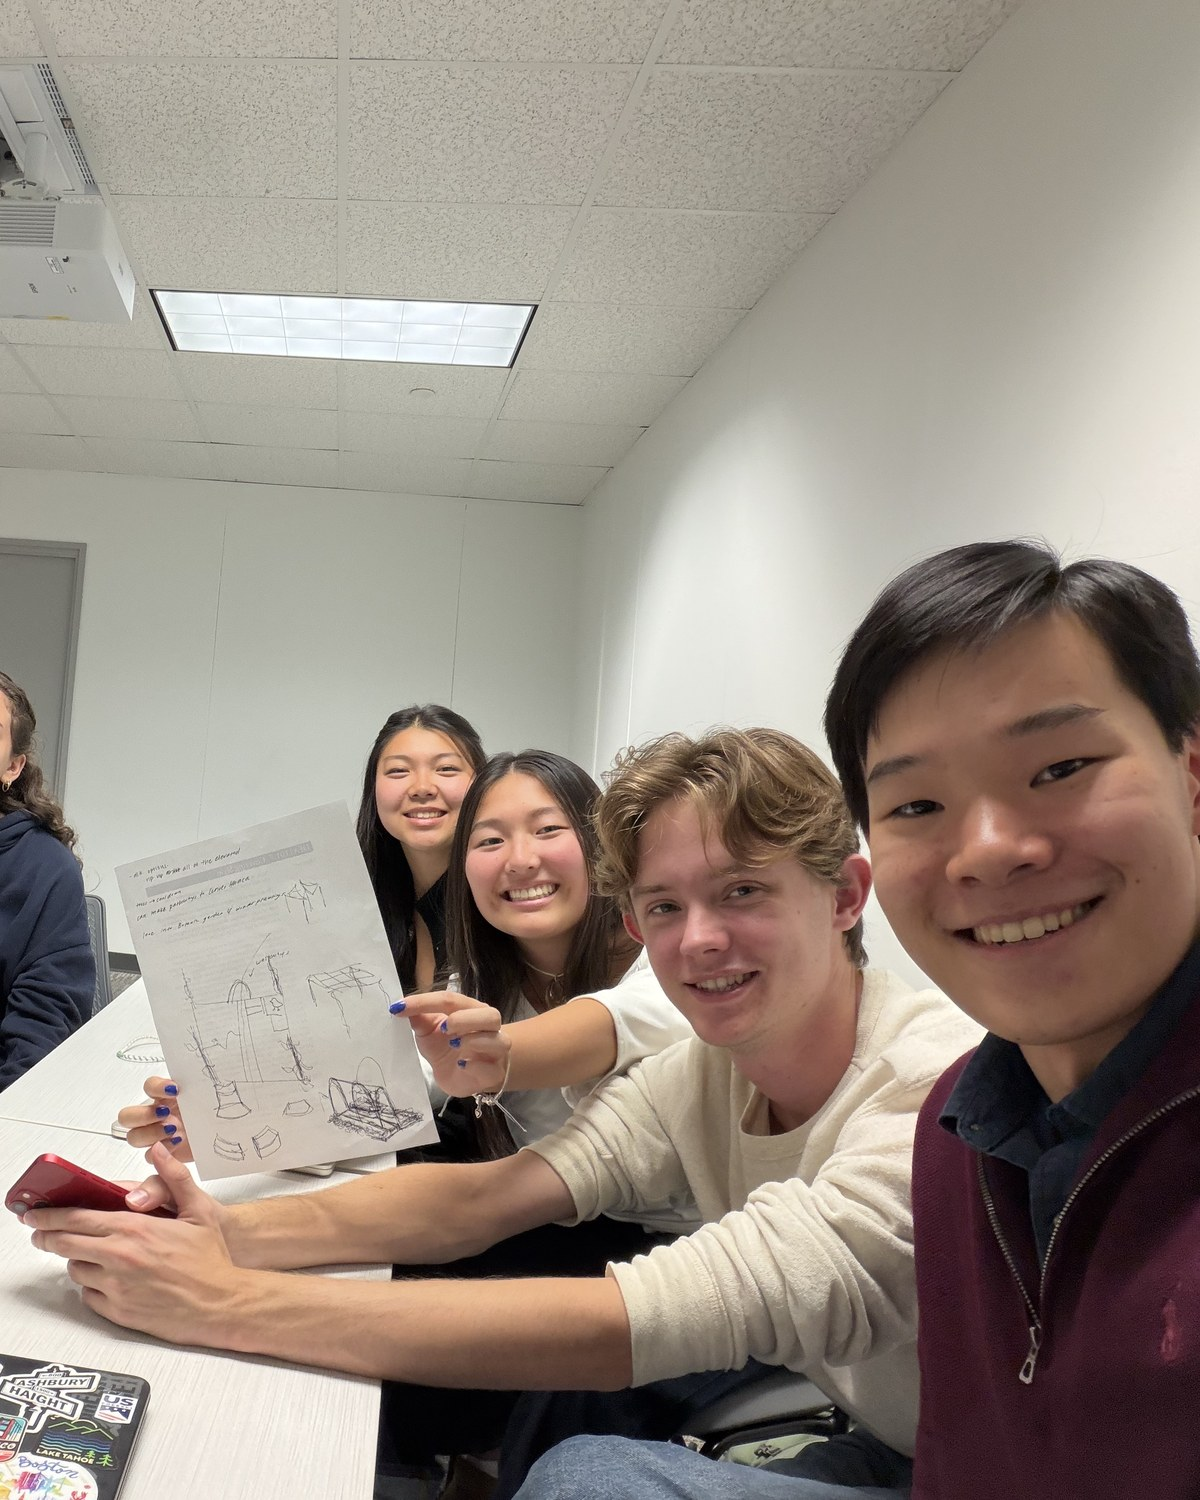
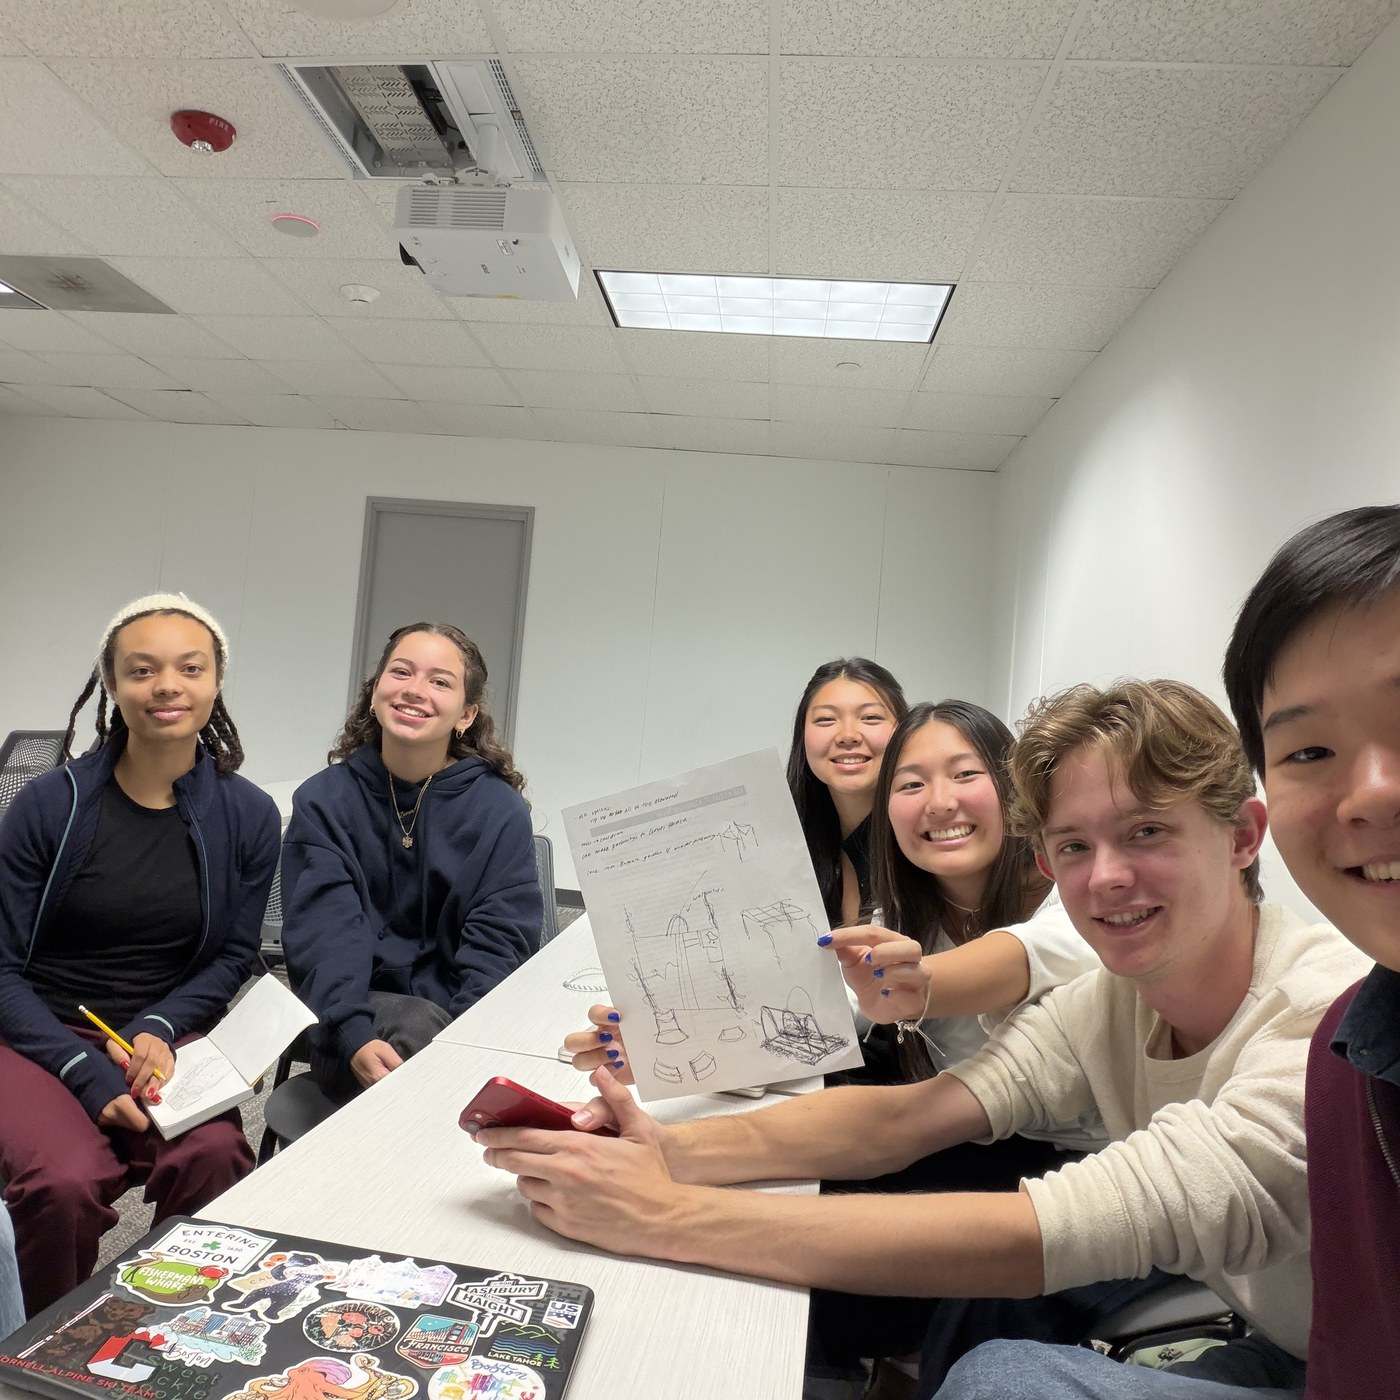
About: recrop CUSD photo, polaroid-style square
Claude-Session: https://claude.ai/code/session_01UHrP7f3T6PvekE7nxDfNFQ

diff --git a/content/site.js b/content/site.js
@@ -35,7 +35,7 @@ window.SITE = {
   board: [
     // Until a photo is added (set "src"), each one shows as a colored card ("tint": [bottom, top, text color]).
     { title: "My Communities", note: "(flip the cards!)", ratio: "4/5", items: [
-      { src: "assets/about/communities/cusd.jpg?v=202611161914", card: "CUSD", caption: "Cornell University Sustainable Design", link: "https://www.cusd.cornell.edu/",
+      { src: "assets/about/communities/cusd.jpg?v=202611161917", card: "CUSD", caption: "Cornell University Sustainable Design", link: "https://www.cusd.cornell.edu/",
         back: "I'm on the Sustainable Cities project team, where we partner with the Ithaca Commons to build an online presence for local storefronts and bring in more student business from Cornell and Ithaca College. We focus on small businesses fighting to stay afloat as foot traffic shifts online. The work connects my passion for urban design with my love for art and design, and it's so grounding to work alongside local Ithaca businesses.", tint: ["#3d2fd6", "#8f7dff"] },
       { src: "assets/about/communities/mediocre-melodies-stage3.jpg", caption: "Mediocre Melodies", link: "https://mediocremelodies.com/",
         back: "Bad singers for a good cause! The name means exactly what we are: a comedic a cappella group of (questionable) singers with personality, making people laugh at our concerts while raising money for local charities, like Challenge Contract Staffing. Truly a family of personable and hilarious people, and I'm so honored to be a part of it :)" },

diff --git a/index.html b/index.html
@@ -8,13 +8,13 @@
 <link rel="preconnect" href="https://fonts.googleapis.com">
 <link rel="preconnect" href="https://fonts.gstatic.com" crossorigin>
 <link rel="stylesheet" href="https://fonts.googleapis.com/css2?family=Archivo:wdth,wght@62..125,700..800&family=Bricolage+Grotesque:opsz,wdth,wght@12..96,75..100,400..800&family=Instrument+Sans:wght@400;500;600&family=Instrument+Serif:ital@1&family=Syne:wght@700..800&family=Archivo+Narrow:wght@500;600;700&family=Caveat:wght@500;600&family=Inter:wght@400;500;600&family=Inter+Tight:wght@400;500;600;700&family=Roboto+Mono:wght@400;500&display=swap">
-<link rel="stylesheet" href="css/style.css?v=202611161914">
+<link rel="stylesheet" href="css/style.css?v=202611161918">
 </head>
 <body>
 <div id="app"></div>
-<script>window.SITE_VERSION = "202611161914";</script>
-<script src="content/site.js?v=202611161914"></script>
-<script src="js/glyphs.js?v=202611161914"></script>
-<script src="js/app.js?v=202611161914"></script>
+<script>window.SITE_VERSION = "202611161918";</script>
+<script src="content/site.js?v=202611161918"></script>
+<script src="js/glyphs.js?v=202611161918"></script>
+<script src="js/app.js?v=202611161918"></script>
 </body>
 </html>

diff --git a/css/style.css b/css/style.css
@@ -736,3 +736,6 @@ h1, h2, h3, .card h3, .index .t, .s-text h2, .s-block > h2, .sn-text h3, .col h3
 @media (max-width: 760px) { .pair[style*="--pair-cols"] { grid-template-columns: 1fr; } }
 /* thin outline on the sketch + annotated lo-fi pair */
 .split-pair .media { outline: 1px solid rgba(17,17,17,.22); outline-offset: -1px; }
+/* CUSD photo is square: show it whole at the top of a normal-size card, Polaroid style */
+.pinned .media:has(img[src*="communities/cusd"]) { background: #fff; }
+.pinned .media img[src*="communities/cusd"] { object-fit: contain; object-position: 50% 0; }
